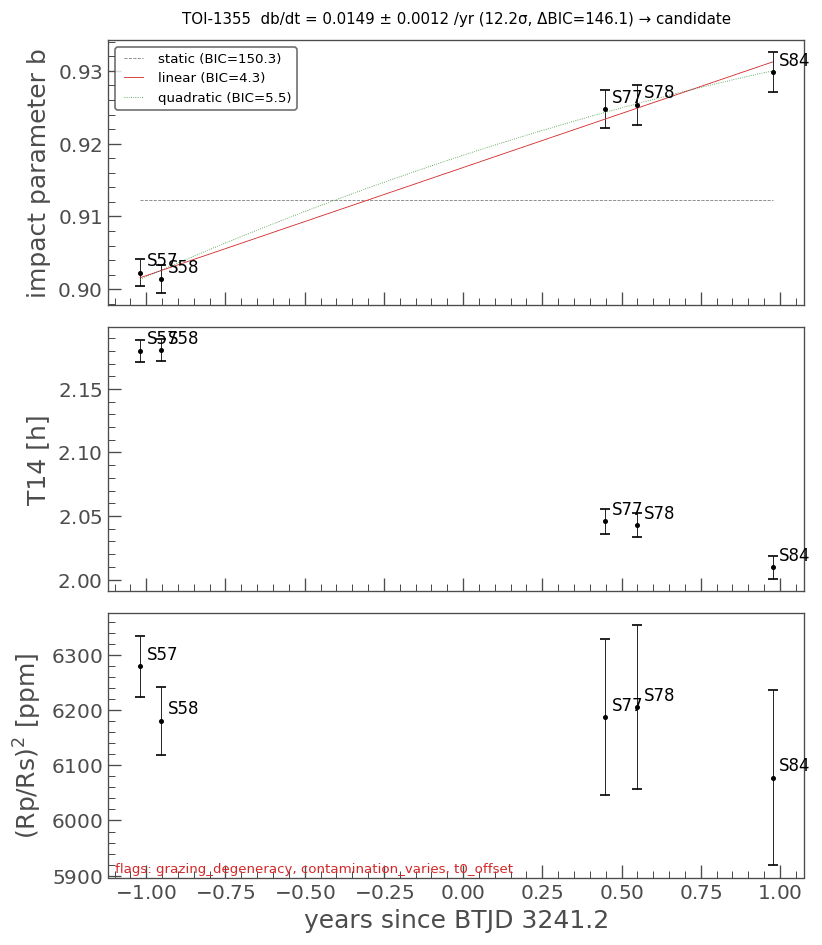
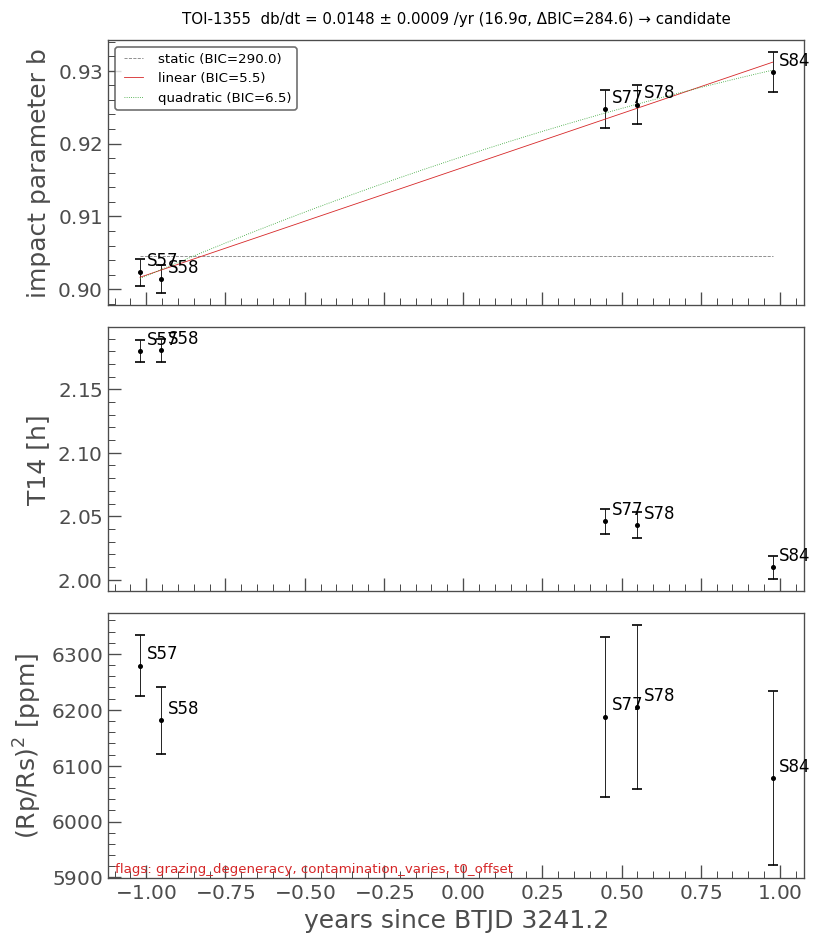
fix: normalize every stitched sector to the same baseline
get_lc() reselected each sector's flux column after
LightCurveCollection.stitch() had already normalized a different one,
so sectors downloaded at different absolute levels (aperture,
background, pipeline drift) kept those offsets instead of settling on
a common baseline of 1 -- visible as level jumps between sectors for
TOI-1355 and TOI-216. Select the flux column per sector, before
stitch()'s default per-light-curve normalize(), and skip the
now-redundant post-stitch reselection.

Also give the TOI-216 TTV example a fixed 1-day flatten window: the
auto-optimized ~0.48 d window (only ~2.4-3x the transit duration) still
let biweight partially fit the shallow, long transit, flattening its
depth below TFOP's. Update the docs/notebook examples and regenerate
their figures.

diff --git a/quicklook/tql.py b/quicklook/tql.py
@@ -951,14 +951,20 @@ class TessQuickLook(SingleEventMixin, TTVMixin, PrecessionMixin):
             self.sector = lc.sector
 
         # Select flux type / photometry for pipelines that expose a choice.
+        # For sector_orig == "all" this already happened per sector inside
+        # _stitch_masked, before each light curve was normalized; selecting
+        # it again here would overwrite the stitched, per-sector-normalized
+        # "flux" column with the raw (unnormalized) column and reintroduce
+        # the sector-to-sector offsets normalization is meant to remove.
         author = lc.meta["AUTHOR"].lower()
-        if author == "spoc":
-            lc = lc.select_flux(self.flux_type + "_flux")
-        elif author == "tglc":
-            # MAST TGLC HLSP files carry both calibrated flux columns.
-            lc, used = _select_tglc_flux(lc, self.flux_type)
-            if used != self.flux_type:
-                self.flux_type = used
+        if sector_orig != "all":
+            if author == "spoc":
+                lc = lc.select_flux(self.flux_type + "_flux")
+            elif author == "tglc":
+                # MAST TGLC HLSP files carry both calibrated flux columns.
+                lc, used = _select_tglc_flux(lc, self.flux_type)
+                if used != self.flux_type:
+                    self.flux_type = used
 
         # Set exposure time and cadence
         if self.exptime is None:
@@ -1002,13 +1008,41 @@ class TessQuickLook(SingleEventMixin, TTVMixin, PrecessionMixin):
         return lc
 
     def _stitch_masked(self, search_result, author):
-        """Download and stitch several light curves, masking TGLC per sector."""
+        """Download and stitch several light curves, masking TGLC per sector.
+
+        The flux column is selected on each light curve *before* stitching, so
+        that ``LightCurveCollection.stitch()``'s per-light-curve
+        ``normalize()`` (its default ``corrector_func``) acts on the column
+        the user asked for and brings every sector to the same median of 1.
+        Selecting the flux column afterwards, on the already-stitched light
+        curve, would instead restore each sector's raw, unnormalized counts —
+        which differ sector to sector (aperture, background, pipeline drift)
+        — and a single normalize() over the whole stitched array does not
+        remove those per-sector offsets, only rescales them together. This
+        produced visibly different flux levels per sector for TOI-1355 and
+        TOI-216 multi-sector/"all" runs.
+        """
         lcs = search_result.download_all(
             quality_bitmask=_download_bitmask(author, self.quality_bitmask)
         )
+        # None (e.g. synthetic light curves in tests, built without a flux
+        # column to choose) means there is no choice to apply before
+        # stitching; stitch() then normalizes whatever "flux" already holds.
+        flux_type = getattr(self, "flux_type", None)
         if str(author).upper() == "TGLC":
             lcs = lk.LightCurveCollection(
                 [_apply_tglc_hlsp_mask(lc, self.quality_bitmask) for lc in lcs]
+            )
+            if flux_type is not None:
+                selected = [_select_tglc_flux(lc, flux_type) for lc in lcs]
+                lcs = lk.LightCurveCollection([sel_lc for sel_lc, _ in selected])
+                used = {u for _, u in selected}
+                if len(used) == 1 and (used_flux_type := used.pop()) != flux_type:
+                    self.flux_type = used_flux_type
+        elif str(author).upper() == "SPOC" and flux_type is not None:
+            flux_col = f"{flux_type}_flux"
+            lcs = lk.LightCurveCollection(
+                [lc.select_flux(flux_col) if flux_col in lc.colnames else lc for lc in lcs]
             )
         self._record_sector_spans(lcs)
         return _sort_by_time(lcs.stitch())

diff --git a/tests/test_sectors_list.py b/tests/test_sectors_list.py
@@ -2,6 +2,7 @@
 
 from unittest.mock import patch
 
+import lightkurve as lk
 import numpy as np
 import pytest
 from astropy.table import Table
@@ -179,3 +180,55 @@ def test_get_lc_only_downloads_requested_sectors():
             pass  # only the sector selection is under test
     assert captured["sectors"] == [66, 67, 68]
     assert ql.sector == [66, 67, 68]
+
+
+def _raw_sector_lc(t0, sector, level, seed):
+    """A sector downloaded at its own absolute flux level (aperture,
+    background, pipeline drift differ sector to sector): ``flux`` and
+    ``pdcsap_flux`` both hold the same un-normalized counts, as a real
+    SPOC/PDCSAP product does before any selection or normalization."""
+    rng = np.random.default_rng(seed)
+    t = np.arange(t0, t0 + 25.0, 120 / 86400)
+    raw = level * (1 + rng.normal(0, 5e-4, t.size))
+    lc = lk.LightCurve(time=t, flux=raw, flux_err=np.full_like(raw, 5e-4 * level))
+    lc.meta["SECTOR"] = sector
+    lc.meta["AUTHOR"] = "SPOC"
+    lc.meta["FRAMETIM"] = 2.0
+    lc.meta["NUM_FRM"] = 60
+    lc["pdcsap_flux"] = raw.copy()
+    lc["pdcsap_flux_err"] = lc["flux_err"].copy()
+    return lc
+
+
+def test_get_lc_normalizes_every_sector_to_the_same_baseline():
+    """TOI-1355 and TOI-216: multi-sector runs showed a different flux
+    baseline per sector. get_lc() used to reselect the flux column *after*
+    stitch() had already normalized a different column, which restored each
+    sector's raw, un-normalized level instead of leaving every sector at 1.0.
+    """
+    rows = [("SPOC", 1, 120), ("SPOC", 2, 120)]
+    lcs = lk.LightCurveCollection(
+        [_raw_sector_lc(1000.0, 1, 1000.0, 1), _raw_sector_lc(1030.0, 2, 5000.0, 2)]
+    )
+
+    class _DownloadableResult(_FakeSearch):
+        def __getitem__(self, mask):
+            return _DownloadableResult(self.table[mask])
+
+        def download_all(self, **_):
+            return lcs
+
+    fake = _DownloadableResult(_search(rows).table)
+    ql = _get_lc_instance()
+    ql.flux_type, ql.exptime, ql.flatten_method = "pdcsap", None, "biweight"
+    ql.sigma_clip_raw = None
+
+    with (
+        patch("quicklook.tql.lk.search_lightcurve", return_value=fake),
+        patch.object(TessQuickLook, "_download_with_retry", side_effect=lambda f: f()),
+    ):
+        result = ql.get_lc(author="SPOC", sector=[1, 2], exptime=120)
+
+    in_sector_1 = np.asarray(result.time.value) < 1030.0
+    assert np.nanmedian(result.flux.value[in_sector_1]) == pytest.approx(1.0, abs=0.02)
+    assert np.nanmedian(result.flux.value[~in_sector_1]) == pytest.approx(1.0, abs=0.02)

diff --git a/docs/ttv-search.md b/docs/ttv-search.md
@@ -92,20 +92,26 @@ TOI-216 has two planets near a 2:1 resonance with known TTVs. Stitching
 sectors 1–6:
 
 ```bash
-ql run --name TOI-216 --sectors 1,2,3,4,5,6 --exptime 120 --ttv-search --save
+ql run --name TOI-216 --sectors 1,2,3,4,5,6 --exptime 120 --window-length 1 --ttv-search --save
 ```
 
-TLS finds TOI-216 c at P = 34.545 d (SDE 45). All 5 transits are fitted.
-The O−C swings by ±10 min (amplitude 10.2 min, p = 4×10⁻³¹, still
-3×10⁻¹² without the worst transit), so TTVs are flagged. With no epoch
-missing between transits, the cycle count is unique.
+TLS finds TOI-216 c at P = 34.556 d (SDE 41), depth 17.3 ppt (matching
+TFOP's 17.4 ppt). All 5 transits are fitted. The O−C swings by ±9.3 min
+(p = 3.9×10⁻³⁸, still 5.2×10⁻²⁰ without the worst transit), so TTVs are
+flagged. With no epoch missing between transits, the cycle count is unique.
 
 ![TOI-216 sectors 1-6 with the TTV search](img/ttv-toi216-s1-6.png)
 
-The small bumps on either side of the aligned transits (panel 7) come from
-the pipeline's 0.48 d biweight window, which is only ~2.4× the 4.7 h duration.
-They are symmetric, so they do not shift the fitted times. A longer
-`--window-length` removes them.
+The auto-optimized window (0.48 d, only ~2.4–3× the 4.7 h transit duration)
+still let the biweight filter partially fit the transit, flattening the depth
+and leaving small symmetric bumps on either side of the aligned transits
+(panel 7). The window-length grid search is calibrated against generic
+injected transits (duration 0.05–0.5 d), not against this specific candidate's
+long, shallow one, so "3×" from that search is not a guaranteed safety
+margin — Hippke & Heller (2019) report measurable depth bias persisting past
+that ratio for biweight. A fixed `--window-length 1` (d) — about 5–6× the
+duration — fixes it: fewer in-transit points fall inside each window, so the
+local robust mean isn't pulled toward the transit.
 
 ## Diagnostic figures for active stars
 

diff --git a/docs/precession-search.md b/docs/precession-search.md
@@ -226,6 +226,17 @@ to 2.01 h, and `Rp/Rs` stays at 0.078-0.079. The `grazing_degeneracy` flag
 (max `|corr(b, Rp/Rs)|` = 0.95) is informational here because `Rp/Rs` does not
 trend.
 
+With the current full-covariance method, `db/dt = 0.0148 ± 0.0009 /yr`
+(16.9σ, ΔBIC = 284) — the same candidate, more significant — now that every
+stitched sector normalizes to the same baseline. Previously,
+`TessQuickLook.get_lc()` reselected each sector's raw, un-normalized flux
+column *after* `LightCurveCollection.stitch()` had already normalized it, so
+sectors downloaded at different absolute brightness levels (aperture,
+background, pipeline drift) kept those offsets instead of settling on a
+common baseline of 1 — visible as level jumps between TOI-1355's five sectors
+in the raw light curve, which biased the per-sector transit-shape fit this
+search depends on.
+
 ![TOI-1355 precession figure](img/precession-toi1355.png)
 
 On synthetic four-sector light curves (three years, b ≈ 0.8) the tests check
